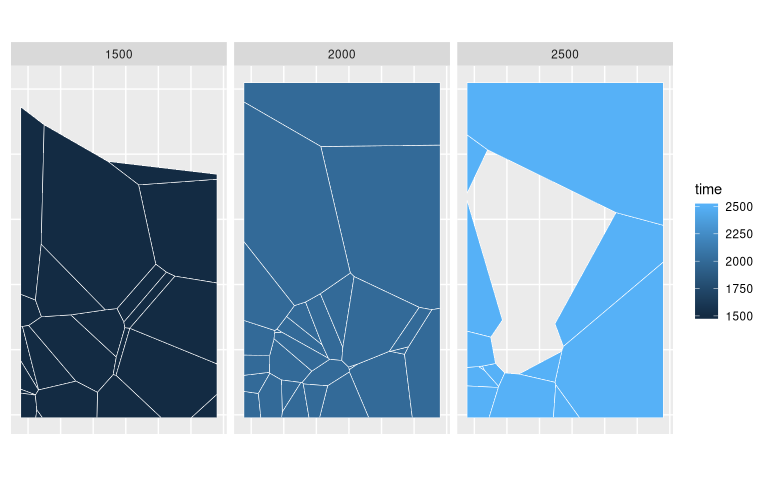
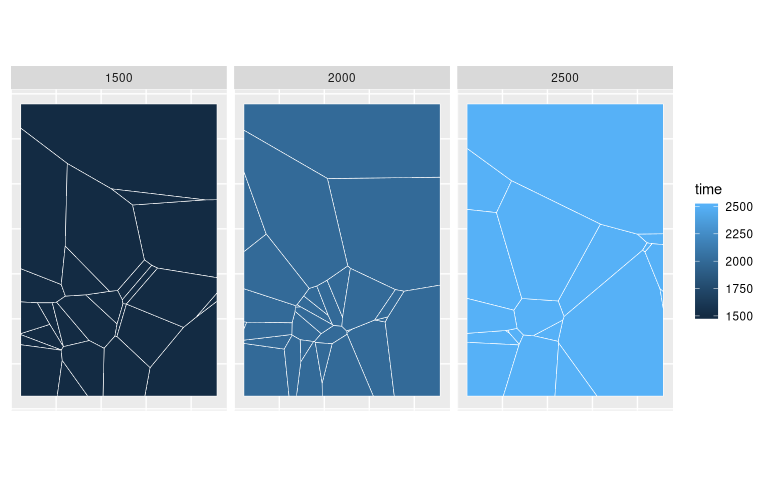
increased tessellation box size in readme

diff --git a/README.md b/README.md
@@ -27,7 +27,8 @@ is so close to the equator, that this projection should even represent
 distances, angles and areas quite correctly. I rescaled the temporal
 data with a factor of 1000 to better show the effect of 3D tessellation.
 You can imagine the samples to be observations in a 3D geo-time-space
-where one year equals one kilometre.
+where one year equals one kilometre. Samples with equal position in all
+three dimensions have to be avoided.
 
 ``` r
 c14_cmr <- c14bazAAR::get_c14data("adrac") %>% 
@@ -175,24 +176,29 @@ Output example of voro++ rendered with POV-Ray.
 Voronoi tessellation can be calculated not just for 2D surfaces, but
 also for higher dimensions. The [voro++](http://math.lbl.gov/voro++/)
 software library does exactly this for 3D space.
-`bleiglas::tessellate()` is a very minimal wrapper function that calls
-the voro++ command line interface for datasets like the one introduced
+`bleiglas::tessellate()` is a minimal wrapper function that calls the
+voro++ command line interface for datasets like the one introduced
 above.
 
 ``` r
-raw_voro_output <- bleiglas::tessellate(c14[, c("id", "x", "y", "z")])
+raw_voro_output <- bleiglas::tessellate(
+  c14[, c("id", "x", "y", "z")],
+  x_min = min(c14$x) - 150000, x_max = max(c14$x) + 150000, 
+  y_min = min(c14$y) - 150000, y_max = max(c14$y) + 150000
+)
 ```
 
-voro++ prints some config info on the command line:
+I increased the size of the tessellation box by 150 kilometres to each
+(spatial) direction. voro++ prints some config info on the command line:
 
-    Container geometry        : [1.08714e+06:1.75688e+06] [213124:1.35658e+06] [1.01e+06:2.99e+06]
-    Computational grid size   : 3 by 5 by 7 (estimated from file)
-    Filename                  : /tmp/RtmpqawYn1/file5e7af3a0823
+    Container geometry        : [937143:1.90688e+06] [63124.2:1.50658e+06] [1.01e+06:2.99e+06]
+    Computational grid size   : 3 by 5 by 6 (estimated from file)
+    Filename                  : /tmp/Rtmpf2W27D/file1932362bb49
     Output string             : %i§%P§%t
-    Total imported particles  : 374 (3.6 per grid block)
-    Total V. cells computed   : 373
-    Total container volume    : 1.51632e+18
-    Total V. cell volume      : 1.5155e+18
+    Total imported particles  : 379 (4.2 per grid block)
+    Total V. cells computed   : 379
+    Total container volume    : 2.77155e+18
+    Total V. cell volume      : 2.77156e+18
 
 The output of voro++ is highly customizable, but structurally complex. I
 focussed on the edges of the resulting 3D polygons and wrote a parser
@@ -210,20 +216,20 @@ polygon_edges <- bleiglas::read_polygon_edges(raw_voro_output)
 
 <p>
 
-    ## # A tibble: 22,740 x 7
+    ## # A tibble: 24,136 x 7
     ##        x.a    y.a     z.a     x.b    y.b     z.b    id
     ##      <dbl>  <dbl>   <dbl>   <dbl>  <dbl>   <dbl> <dbl>
-    ##  1 1087140 332136 1211500 1190420 336013 1202560    38
-    ##  2 1352610 233681 1240760 1190420 336013 1202560    38
-    ##  3 1233910 377313 1268590 1190420 336013 1202560    38
-    ##  4 1190420 336013 1202560 1087140 332136 1211500    38
-    ##  5 1087140 213124 1268840 1087140 332136 1211500    38
-    ##  6 1087140 384358 1303390 1087140 332136 1211500    38
-    ##  7 1212250 387699 1290170 1309730 225141 1313810    38
-    ##  8 1289680 241638 1324360 1309730 225141 1313810    38
-    ##  9 1322850 213124 1306720 1309730 225141 1313810    38
-    ## 10 1190420 336013 1202560 1352610 233681 1240760    38
-    ## # … with 22,730 more rows
+    ##  1 1352610 233681 1240760 1381950 158990 1274740    38
+    ##  2 1324180 130338 1292500 1381950 158990 1274740    38
+    ##  3 1309730 225141 1313810 1381950 158990 1274740    38
+    ##  4 1201420 392245 1299830 1289680 241638 1324360    38
+    ##  5 1276830 227624 1327040 1289680 241638 1324360    38
+    ##  6 1309730 225141 1313810 1289680 241638 1324360    38
+    ##  7 1190420 336013 1202560  937143 326505 1224480    38
+    ##  8  937143 374007 1308060  937143 326505 1224480    38
+    ##  9  937143 185322 1292500  937143 326505 1224480    38
+    ## 10  937143 326505 1224480 1190420 336013 1202560    38
+    ## # … with 24,126 more rows
 
 </p>
 
@@ -293,24 +299,24 @@ cut_surfaces <- bleiglas::cut_polygons(
 
 <p>
 
-    ## Simple feature collection with 66 features and 2 fields
+    ## Simple feature collection with 74 features and 2 fields
     ## geometry type:  POLYGON
     ## dimension:      XY
-    ## bbox:           xmin: 1087140 ymin: 213124 xmax: 1756880 ymax: 1356580
+    ## bbox:           xmin: 937143 ymin: 63124.2 xmax: 1906880 ymax: 1506580
     ## epsg (SRID):    4088
     ## proj4string:    +proj=eqc +lat_ts=0 +lat_0=0 +lon_0=0 +x_0=0 +y_0=0 +R=6371007 +units=m +no_defs
     ## First 10 features:
     ##     time  id                              x
-    ## 16  2500  16 POLYGON ((1193932 315609.9,...
+    ## 16  2500  16 POLYGON ((1193932 315611.5,...
+    ## 44  2500  44 POLYGON ((1906880 811490.3,...
     ## 51  2500  51 POLYGON ((1146789 374017.9,...
     ## 53  2500  53 POLYGON ((1195186 319422.3,...
     ## 82  2500  82 POLYGON ((1416023 455769.2,...
-    ## 102 2500 102 POLYGON ((1087140 978989.7,...
-    ## 104 2500 104 POLYGON ((1470267 213124, 1...
+    ## 102 2500 102 POLYGON ((1082637 969464, 9...
+    ## 104 2500 104 POLYGON ((1578607 63124.2, ...
     ## 134 2500 134 POLYGON ((1386791 333246.8,...
-    ## 143 2500 143 POLYGON ((1087140 213124, 1...
-    ## 186 2500 186 POLYGON ((1162469 213124, 1...
-    ## 263 2500 263 POLYGON ((1263909 361378.2,...
+    ## 143 2500 143 POLYGON ((937143 63124.2, 9...
+    ## 186 2500 186 POLYGON ((1116403 63124.2, ...
 
 </p>
 
